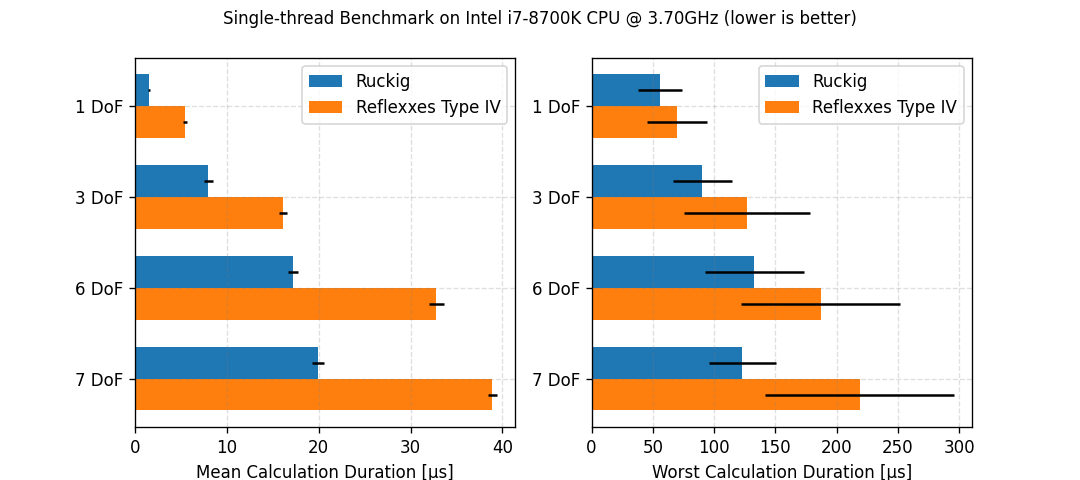
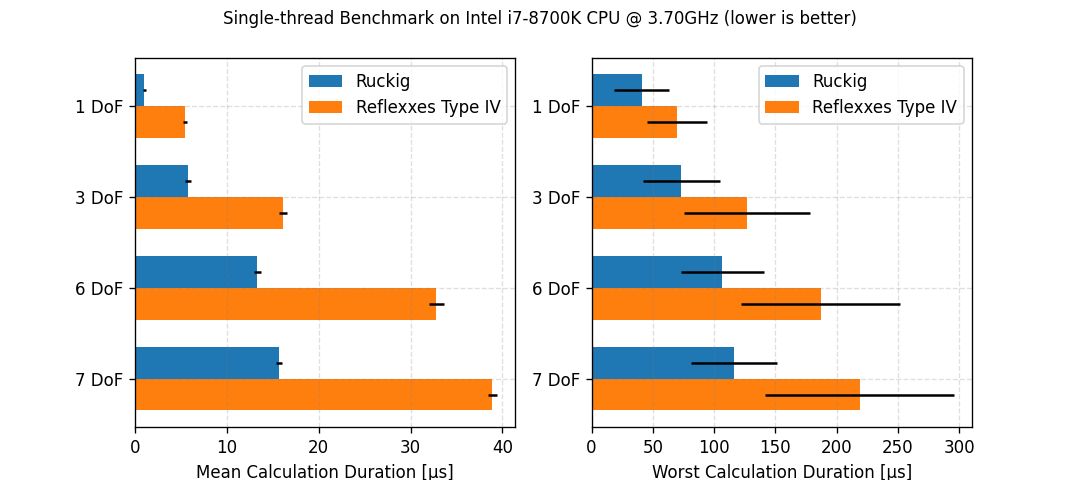
update benchmark figure

diff --git a/test/benchmark_plot.py b/test/benchmark_plot.py
@@ -5,17 +5,17 @@ import numpy as np
 
 
 ticks = ('1 DoF', '3 DoF', '6 DoF', '7 DoF')
-y_pos = np.arange(len(ticks))
-height = 0.35
-
-ruckig_average_mean = [1.57284, 7.988, 17.185, 19.96]
-ruckig_average_err = [0.113595, 0.5259, 0.5497, 0.644]
-ruckig_worst_mean = [55.8624, 90.3289, 132.749, 123.039]
-ruckig_worst_err = [18.2255, 24.051, 40.25, 27.5703]
+ruckig_average_mean = [1.034, 5.768, 13.29, 15.67]
+ruckig_average_err = [0.113595, 0.2788, 0.386, 0.351]
+ruckig_worst_mean = [40.8002, 73.2714, 106.79, 116.333]
+ruckig_worst_err = [22.5748, 31.2448, 34.041, 35.1166]
 reflexxes_average_mean = [5.421, 16.11, 32.80, 38.919]
 reflexxes_average_err = [0.22, 0.465, 0.7919, 0.531]
 reflexxes_worst_mean = [69.61, 127.043, 186.929, 218.70]
 reflexxes_worst_err = [24.54, 51.463, 64.961, 76.97]
+
+y_pos = np.arange(len(ticks))
+height = 0.35
 
 plt.figure(figsize=(9.0, 4.0), dpi=120)
 

diff --git a/README.md b/README.md
@@ -189,7 +189,7 @@ The current test suite validates over 5.000.000.000 random trajectories. The num
 
 ## Benchmark
 
-We find that Ruckig is around twice as fast as Reflexxes Type IV and well-suited for control cycles as low as half a millisecond.
+We find that Ruckig is more than twice as fast as Reflexxes Type IV and well-suited for control cycles as low as half a millisecond.
 
 ![Benchmark](https://github.com/pantor/ruckig/raw/master/doc/benchmark.png?raw=true)
 
